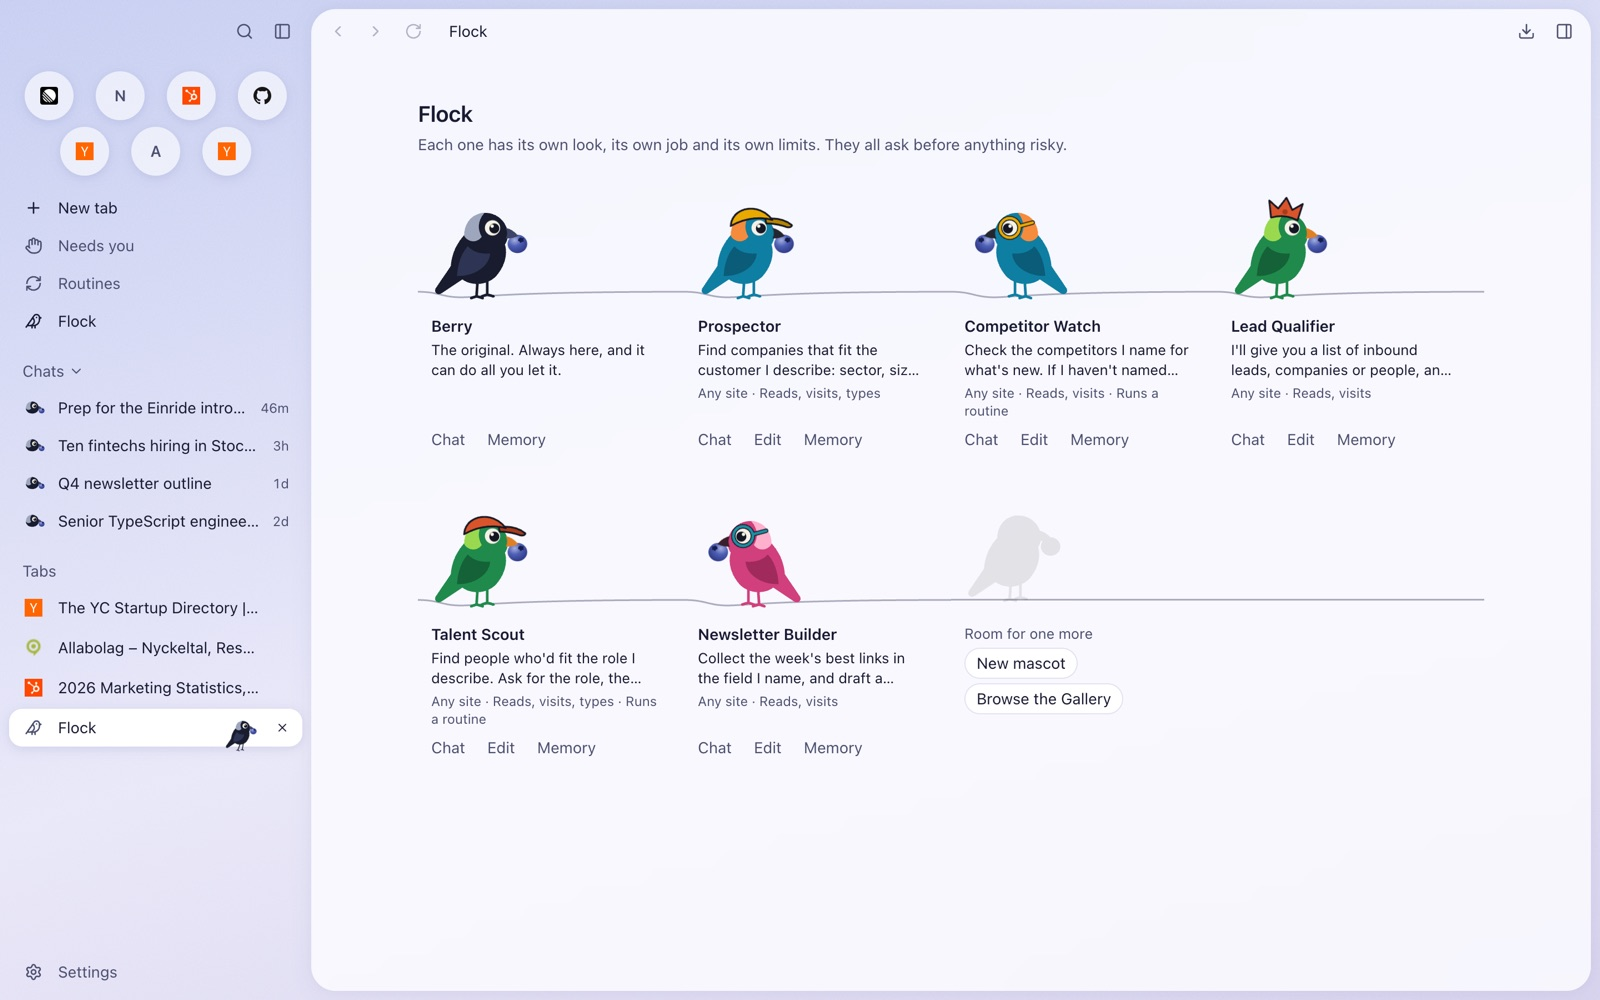
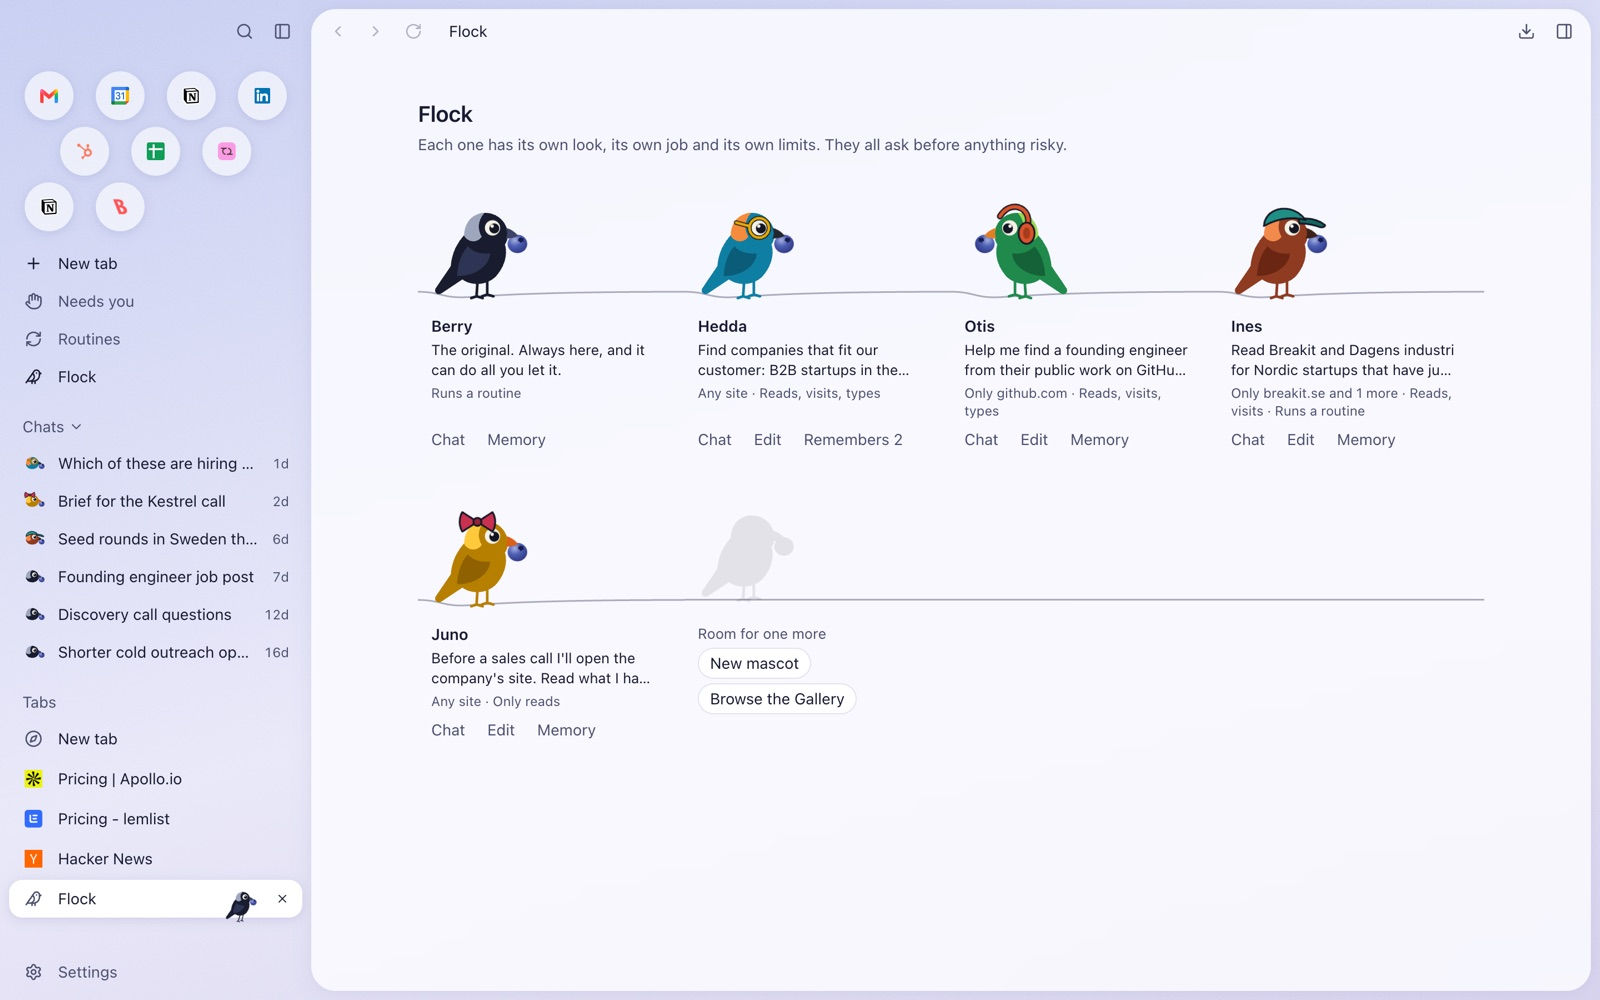
Retake the README screenshots in the demo profile, and draw the link preview on canvas
The five README shots now come from one seeded profile (~/blueberry-demo), so the set reads as one
person's browser. The hero and approval are real runs with the real model on public sites. The link
preview drops the lavender frame and card, as the site did in #90.

diff --git a/README.md b/README.md
@@ -4,7 +4,7 @@ An AI browser that works on your behalf. Grow a flock of birds for the jobs you 
 
 <!-- video -->
 
-![Competitor Watch reading Linear's changelog, with the working view beside the chat](docs/images/hero.jpg)
+![Hedda reading ArcticStartup's job board for Swedish startups that just raised, with the working view beside the chat](docs/images/hero.jpg)
 
 ## What it does
 
@@ -57,12 +57,12 @@ The flock itself, routines on a schedule, jobs that work in tabs behind yours wi
 
 <table>
 <tr>
-<td width="50%"><img src="docs/images/approval.jpg" alt="An approval card with the exact text Berry would type into a sales form"><br>An approval card says exactly what will happen before anything does.</td>
-<td width="50%"><img src="docs/images/flock.jpg" alt="The Flock page with six birds on wires"><br>The flock: Berry and five birds from the Gallery, each with its own limits.</td>
+<td width="50%"><img src="docs/images/approval.jpg" alt="An approval card with the exact text Berry would type into lemlist's contact sales form"><br>An approval card says exactly what will happen before anything does.</td>
+<td width="50%"><img src="docs/images/flock.jpg" alt="The Flock page with Berry, Hedda, Otis, Ines and Juno on wires"><br>The flock: Berry and four birds of your own, each with its own limits.</td>
 </tr>
 <tr>
-<td width="50%"><img src="docs/images/new-tab.jpg" alt="The new tab page with two suggestions on the art blueberry"><br>Suggestions on the new tab page, written from what you browsed.</td>
-<td width="50%"><img src="docs/images/show-berry-how.jpg" alt="The notes Berry took while watching a job, before it becomes a routine"><br>Show Berry how: the notes from one recorded job, before they become a routine.</td>
+<td width="50%"><img src="docs/images/new-tab.jpg" alt="The new tab page with three suggestions on the art blueberry: a prompt, a routine and a new bird"><br>Suggestions on the new tab page, written from what you browsed.</td>
+<td width="50%"><img src="docs/images/show-berry-how.jpg" alt="The notes Berry took while watching a job on ArcticStartup, before it becomes a routine"><br>Show Berry how: the notes from one recorded job, before they become a routine.</td>
 </tr>
 </table>
 
